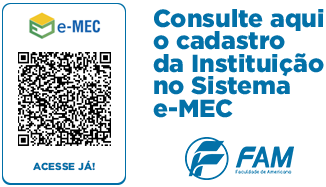
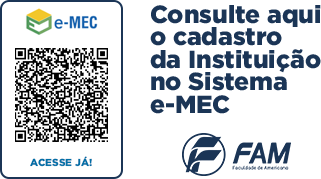
att vestibular

diff --git a/outros/vestibularfam/index.html b/outros/vestibularfam/index.html
@@ -54,7 +54,7 @@
                     <button onclick="showText(5)" data-number="5">Pós-Graduação</button>
                 </div>
                 <div class="campanha" id="text-container">
-                    <img id="initial-image" src="images/img.jpeg" alt="Imagem inicial" />
+                    <img id="initial-image" src="images/960x300.png" alt="Imagem inicial" />
                 </div>
             </div>
         </section>
